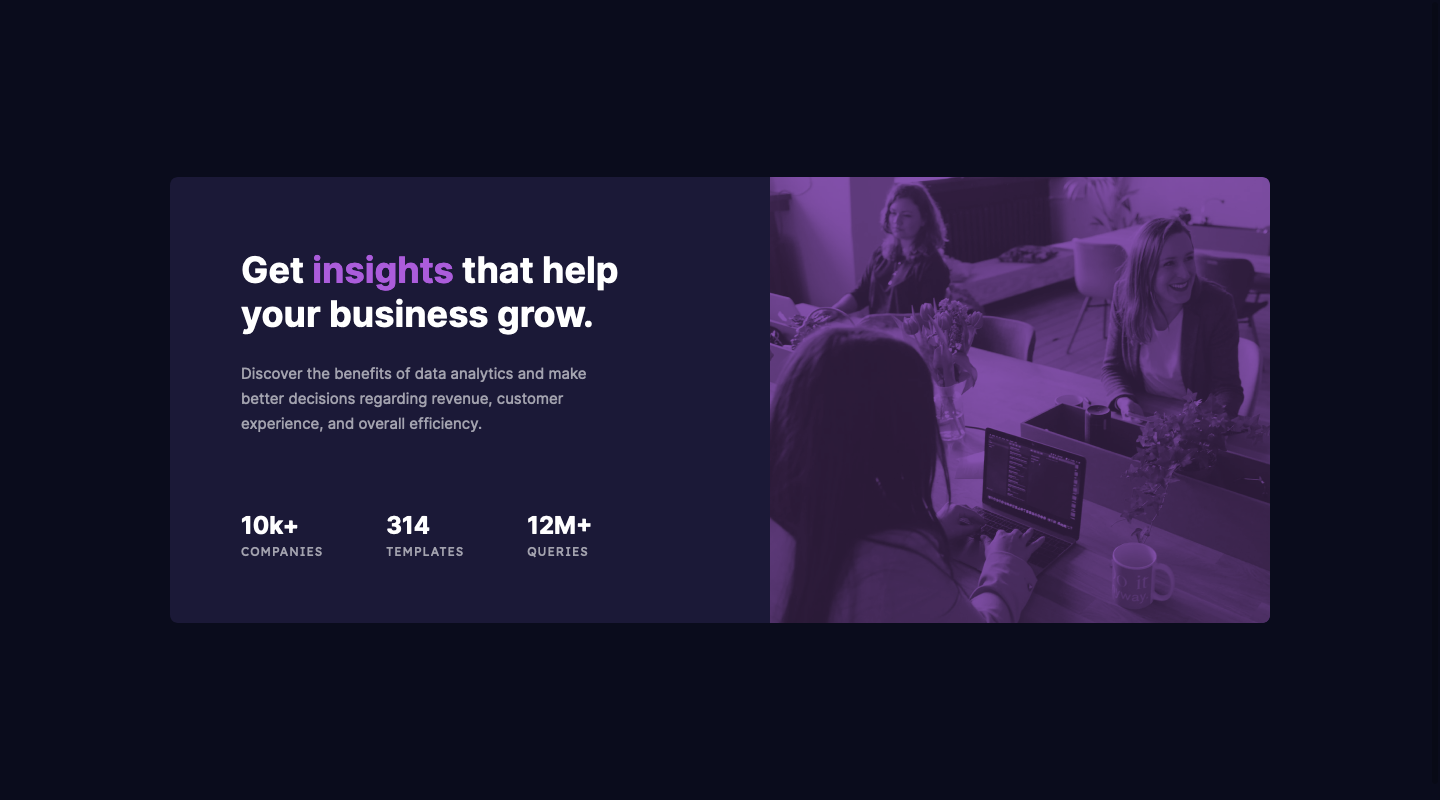
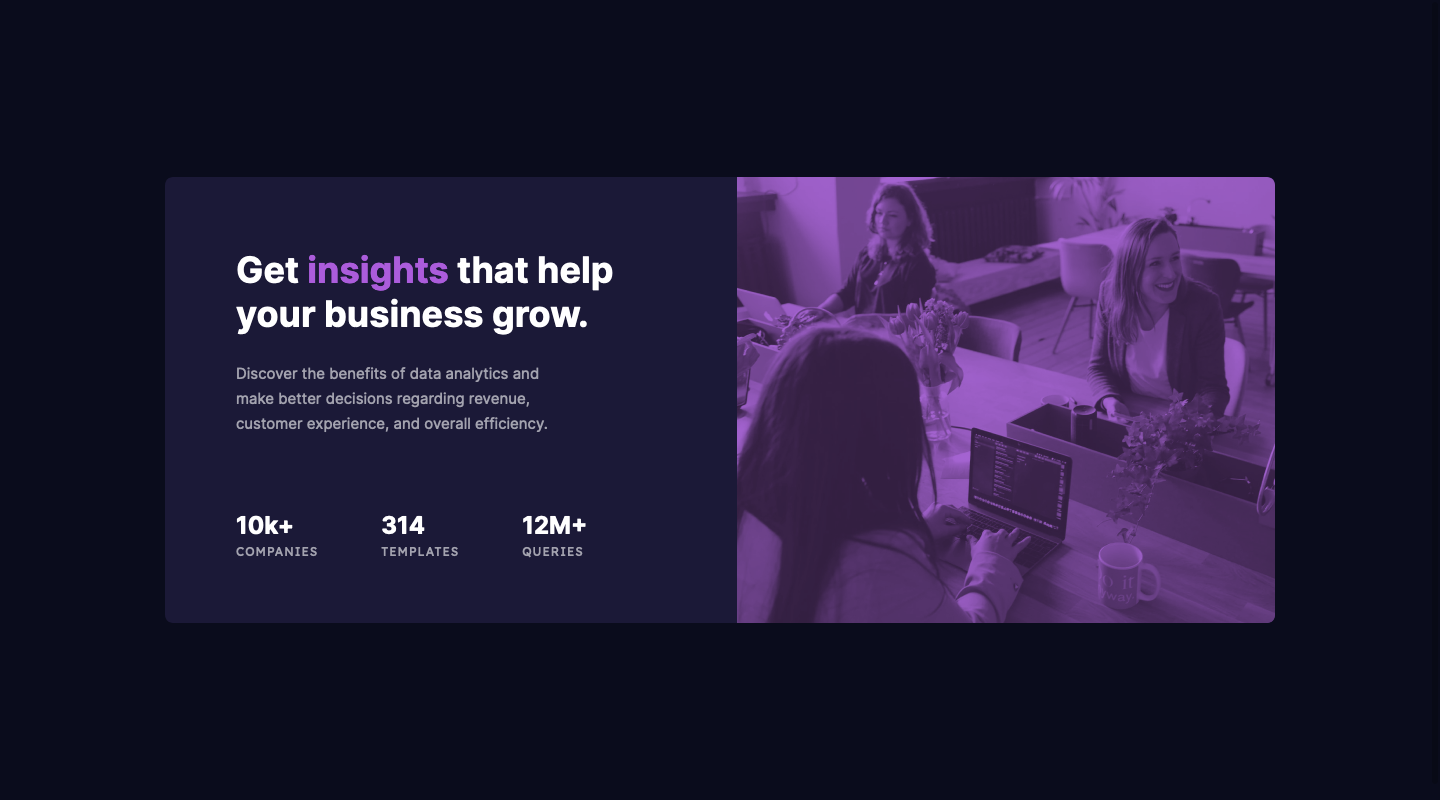
updated git readme and desktop screenshot

diff --git a/src/scss/components/_card.scss b/src/scss/components/_card.scss
@@ -4,13 +4,13 @@
 
 .card {
   background-color: c.$color-secondary;
-  max-width: 110rem;
+  max-width: 111rem;
   height: 44.6rem;
   border-radius: 0.8rem;
   overflow: hidden;
 
   display: grid;
-  grid-template-columns: 1fr 1fr;
+  grid-template-columns: 51.5% 1fr;
 
   @media only screen and (max-width: v.$bp-medium) {
     max-width: 32.7rem;

diff --git a/README.md b/README.md
@@ -65,7 +65,7 @@ For my HTML markup, I named my classes according to the [BEM methodology](https:
 </div>
 ```
 
-I also used both CSS Grids and Flexbox together. I used grids to break up the text area of the card from the image area because I wanted to utilized the fractional properties of each column. In the design the left column was slightly wider than the right column, in the example below, I used fractional units to get as close as possible to to design. Flexbox was used to center the card on the screen.
+I also used both CSS Grids and Flexbox together. I used grids to break up the text area of the card from the image area because I wanted to utilized the fractional properties of each column. In the design the left column was slightly wider than the right column, in the example below, I used percentage and fractional units to get as close as possible to to design. Flexbox was used to center the card on the screen.
 
 ```css
 .card {
